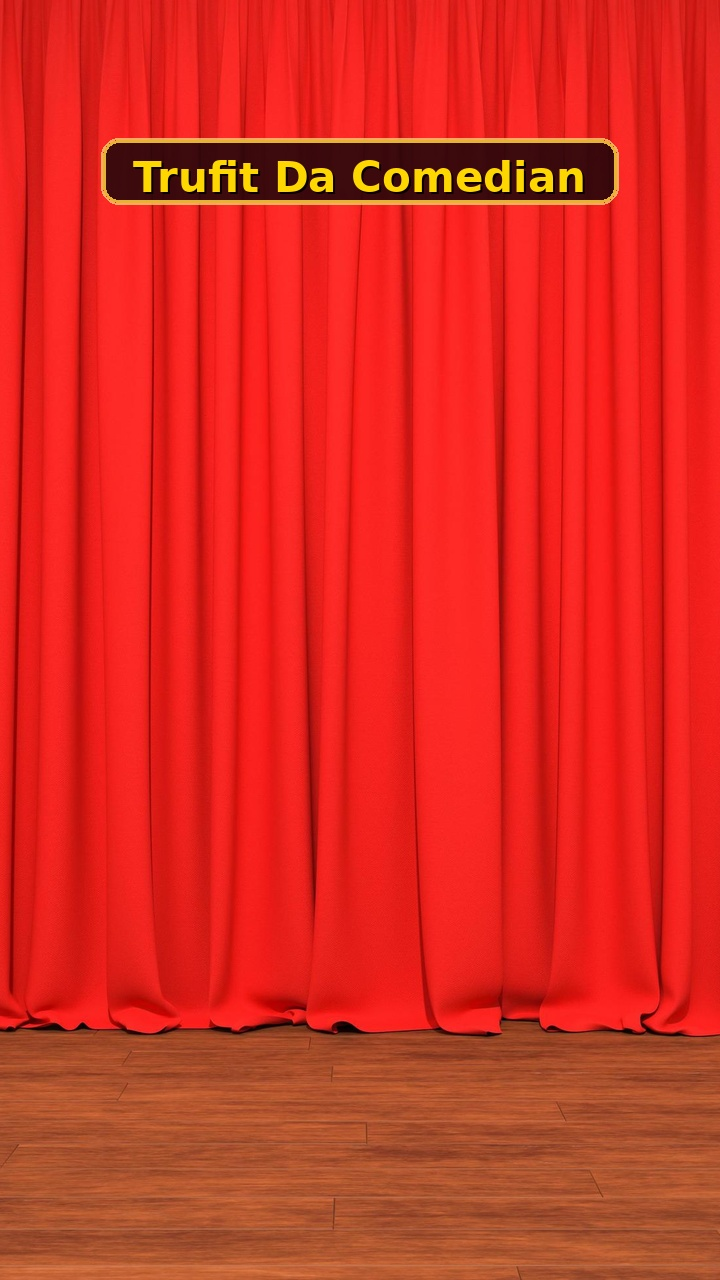
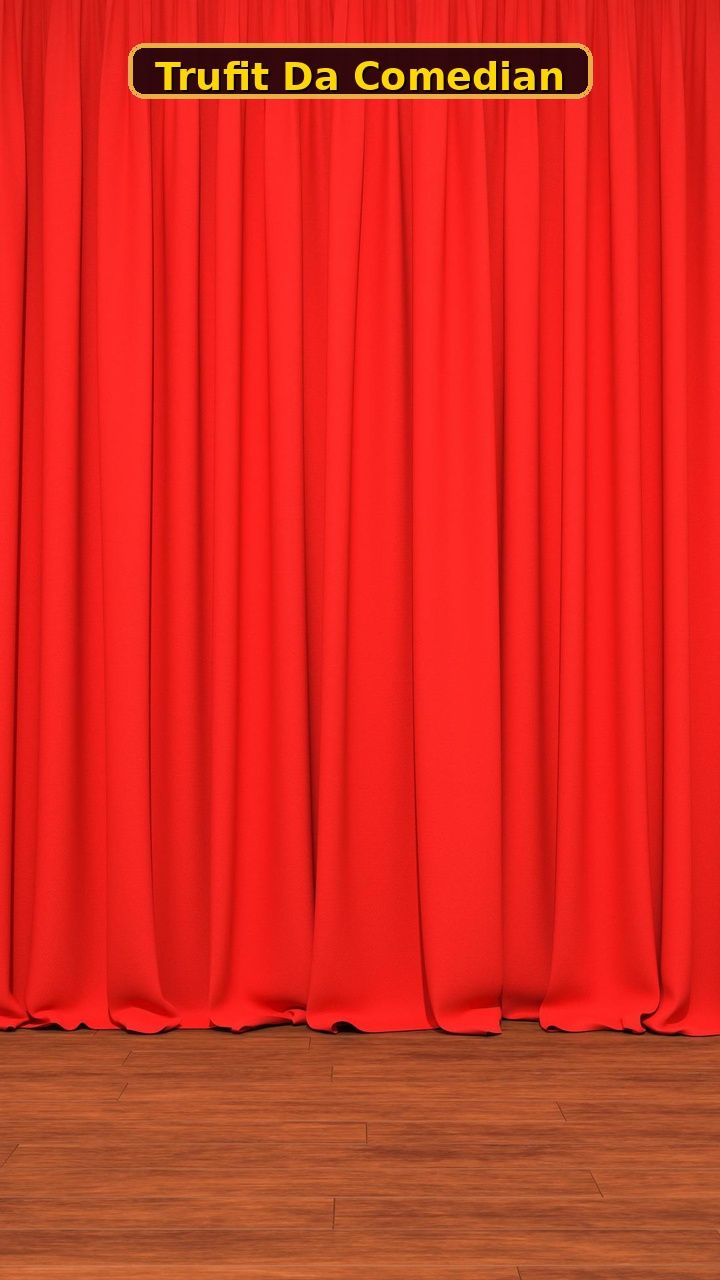
decresase the character size

Changed region(s): [[0.1222, 0.0312, 0.8861, 0.1875]]

diff --git a/ai_file/test_ai.py b/ai_file/test_ai.py
@@ -67,23 +67,23 @@ def ensure_background_image(path: Path | None = None) -> Path:
                     b = int(15 * v_grad)
                     draw.point((x, y), fill=(r, g, b, 255))
 
-        # Add Marquee Sign for 'Trufit Da Comedian' at top of mobile frame
+        # Add Marquee Sign for 'Trufit Da Comedian' at very top of mobile frame
         draw = ImageDraw.Draw(img)
         try:
-            font = ImageFont.truetype("/usr/share/fonts/truetype/dejavu/DejaVuSans-Bold.ttf", 42)
+            font = ImageFont.truetype("/usr/share/fonts/truetype/dejavu/DejaVuSans-Bold.ttf", 38)
         except Exception:
             font = ImageFont.load_default()
 
         bbox = draw.textbbox((0, 0), BACKGROUND_TEXT, font=font)
         tw, th = bbox[2] - bbox[0], bbox[3] - bbox[1]
 
-        px1, py1 = (target_w - tw) // 2 - 30, 140
-        px2, py2 = (target_w + tw) // 2 + 30, 140 + th + 30
+        px1, py1 = (target_w - tw) // 2 - 25, 45
+        px2, py2 = (target_w + tw) // 2 + 25, 45 + th + 22
 
         plate = Image.new("RGBA", (target_w, target_h), (0, 0, 0, 0))
         plate_draw = ImageDraw.Draw(plate)
-        plate_draw.rounded_rectangle((px1, py1, px2, py2), radius=16, fill=(30, 5, 10, 220), outline=(230, 180, 50, 255), width=3)
-        plate_draw.rounded_rectangle((px1 - 2, py1 - 2, px2 + 2, py2 + 2), radius=18, fill=None, outline=(255, 225, 120, 180), width=2)
+        plate_draw.rounded_rectangle((px1, py1, px2, py2), radius=14, fill=(30, 5, 10, 230), outline=(230, 180, 50, 255), width=3)
+        plate_draw.rounded_rectangle((px1 - 2, py1 - 2, px2 + 2, py2 + 2), radius=16, fill=None, outline=(255, 225, 120, 180), width=2)
 
         img = Image.alpha_composite(img.convert("RGBA"), plate).convert("RGB")
         draw = ImageDraw.Draw(img)
@@ -97,8 +97,6 @@ def ensure_background_image(path: Path | None = None) -> Path:
         img.save(bg_path, format="JPEG" if bg_path.suffix.lower() in [".jpg", ".jpeg"] else "PNG", quality=95)
     except Exception:
         bg_path.write_bytes(b"")
-
-    return bg_path
 
     return bg_path
 
@@ -1359,12 +1357,12 @@ def _generate_local_video(avatar: dict, audio_path: Path | None) -> str | None:
         bg_path = ensure_background_image(DEFAULT_BACKGROUND_PATH)
         bg_image = Image.open(bg_path).convert("RGBA")
         avatar_image = Image.open(image_path).convert("RGBA")
-        avatar_width = int(bg_image.width * 0.32)
+        avatar_width = int(bg_image.width * 0.22)
         avatar_height = int(avatar_width * avatar_image.height / max(avatar_image.width, 1))
         avatar_image = avatar_image.resize((avatar_width, avatar_height), Image.LANCZOS)
-        # Position character small in lower-middle of mobile stage frame below title sign
+        # Position character small in lower-middle of mobile stage frame below top marquee title sign
         x = (bg_image.width - avatar_image.width) // 2
-        y = int(bg_image.height * 0.50)
+        y = int(bg_image.height * 0.60)
         composite_path = OUTPUT_DIR / f"composite_{ts}.png"
         bg_image_copy = bg_image.copy()
         bg_image_copy.paste(avatar_image, (x, y), avatar_image)

diff --git a/test_ai_1.py b/test_ai_1.py
@@ -61,23 +61,23 @@ def ensure_background_image(path: Path | None = None) -> Path:
                     b = int(15 * v_grad)
                     draw.point((x, y), fill=(r, g, b, 255))
 
-        # Add Marquee Sign for 'Trufit Da Comedian' at top of mobile frame
+        # Add Marquee Sign for 'Trufit Da Comedian' at very top of mobile frame
         draw = ImageDraw.Draw(img)
         try:
-            font = ImageFont.truetype("/usr/share/fonts/truetype/dejavu/DejaVuSans-Bold.ttf", 42)
+            font = ImageFont.truetype("/usr/share/fonts/truetype/dejavu/DejaVuSans-Bold.ttf", 38)
         except Exception:
             font = ImageFont.load_default()
 
         bbox = draw.textbbox((0, 0), BACKGROUND_TEXT, font=font)
         tw, th = bbox[2] - bbox[0], bbox[3] - bbox[1]
 
-        px1, py1 = (target_w - tw) // 2 - 30, 140
-        px2, py2 = (target_w + tw) // 2 + 30, 140 + th + 30
+        px1, py1 = (target_w - tw) // 2 - 25, 45
+        px2, py2 = (target_w + tw) // 2 + 25, 45 + th + 22
 
         plate = Image.new("RGBA", (target_w, target_h), (0, 0, 0, 0))
         plate_draw = ImageDraw.Draw(plate)
-        plate_draw.rounded_rectangle((px1, py1, px2, py2), radius=16, fill=(30, 5, 10, 220), outline=(230, 180, 50, 255), width=3)
-        plate_draw.rounded_rectangle((px1 - 2, py1 - 2, px2 + 2, py2 + 2), radius=18, fill=None, outline=(255, 225, 120, 180), width=2)
+        plate_draw.rounded_rectangle((px1, py1, px2, py2), radius=14, fill=(30, 5, 10, 230), outline=(230, 180, 50, 255), width=3)
+        plate_draw.rounded_rectangle((px1 - 2, py1 - 2, px2 + 2, py2 + 2), radius=16, fill=None, outline=(255, 225, 120, 180), width=2)
 
         img = Image.alpha_composite(img.convert("RGBA"), plate).convert("RGB")
         draw = ImageDraw.Draw(img)
@@ -91,8 +91,6 @@ def ensure_background_image(path: Path | None = None) -> Path:
         img.save(bg_path, format="JPEG" if bg_path.suffix.lower() in [".jpg", ".jpeg"] else "PNG", quality=95)
     except Exception:
         bg_path.write_bytes(b"")
-
-    return bg_path
 
     return bg_path
 
@@ -934,12 +932,12 @@ def _generate_local_video(avatar: dict, audio_path: Path | None) -> str | None:
         bg_path = ensure_background_image(DEFAULT_BACKGROUND_PATH)
         bg_image = Image.open(bg_path).convert("RGBA")
         avatar_image = Image.open(image_path).convert("RGBA")
-        avatar_width = int(bg_image.width * 0.32)
+        avatar_width = int(bg_image.width * 0.22)
         avatar_height = int(avatar_width * avatar_image.height / max(avatar_image.width, 1))
         avatar_image = avatar_image.resize((avatar_width, avatar_height), Image.LANCZOS)
-        # Position character small in lower-middle of mobile stage frame below title sign
+        # Position character small in lower-middle of mobile stage frame below top marquee title sign
         x = (bg_image.width - avatar_image.width) // 2
-        y = int(bg_image.height * 0.50)
+        y = int(bg_image.height * 0.60)
         composite_path = OUTPUT_DIR / f"composite_{ts}.png"
         bg_image_copy = bg_image.copy()
         bg_image_copy.paste(avatar_image, (x, y), avatar_image)